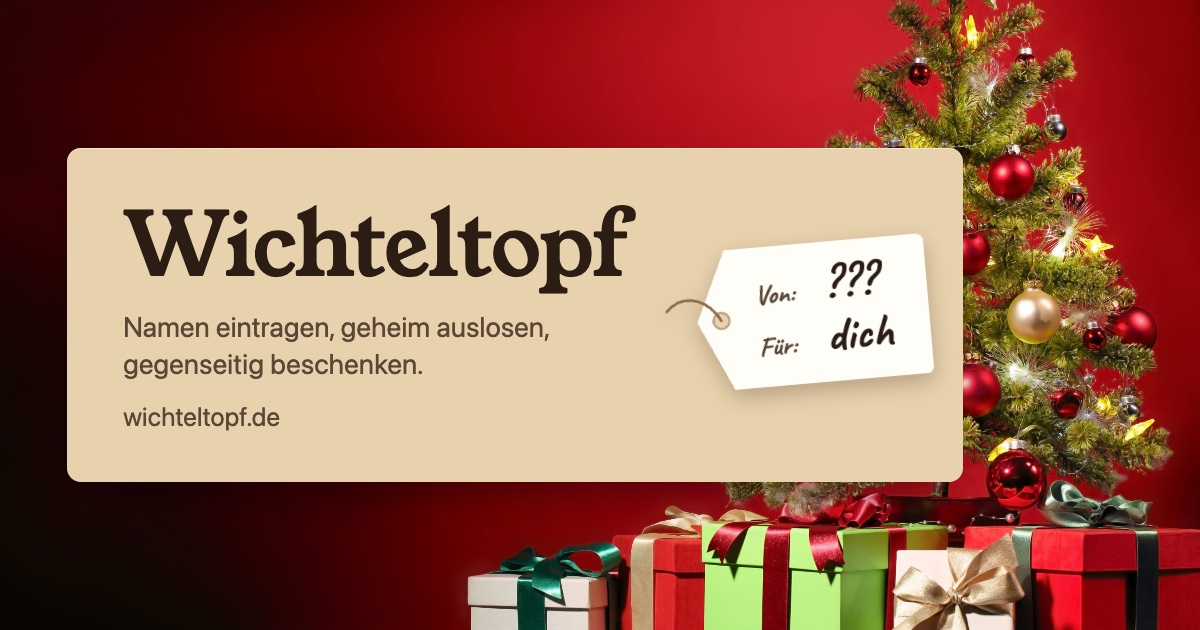
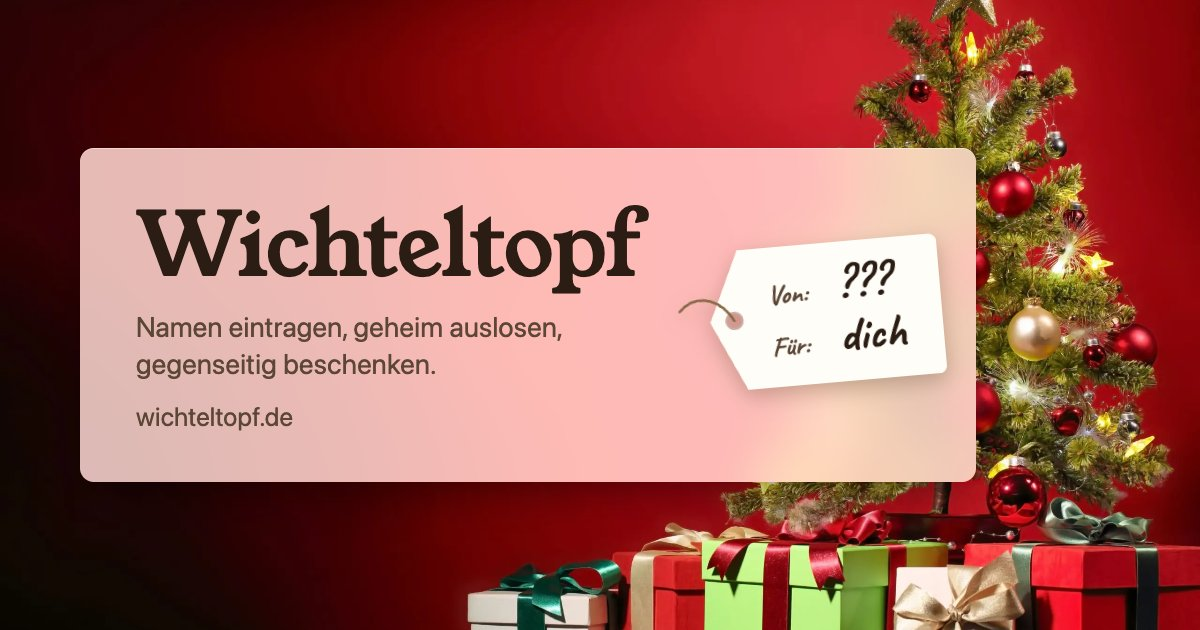
feat: the link preview shows the pot's own background, one preview image per theme

diff --git a/scripts/build-og.ts b/scripts/build-og.ts
@@ -1,0 +1,61 @@
+// Renders the link preview image (1200×630) for every background into public/static/og/<theme>.jpg,
+// and the one of the default theme to public/static/og.jpg for pages without a pot.
+// The template assets/og-image.html uses the site's stylesheets, served here from public/ by a tiny
+// local server, and is shot with headless Chrome (set CHROME if it isn't found).
+// Usage: npm run og [-- id ...]   (after `npm run images` and the entry in src/themes.ts)
+import { mkdirSync, readFileSync, writeFileSync } from 'node:fs';
+import { createServer } from 'node:http';
+import { fileURLToPath } from 'node:url';
+import sharp from 'sharp';
+import { THEMES } from '../src/themes.ts';
+import { startBrowser } from './lib/harness.ts';
+
+/** The background of public/static/og.jpg, the preview of pages that don't belong to a pot */
+const START_THEME = 'tree1';
+
+const PUBLIC = fileURLToPath(new URL('../public/', import.meta.url));
+const OUT = `${PUBLIC}static/og/`;
+const template = readFileSync(new URL('../assets/og-image.html', import.meta.url), 'utf8');
+const TYPES: Record<string, string> = {
+	css: 'text/css',
+	woff2: 'font/woff2',
+	webp: 'image/webp',
+	svg: 'image/svg+xml',
+};
+
+const server = createServer((req, res) => {
+	const path = new URL(req.url ?? '/', 'http://localhost').pathname;
+	const theme = path.match(/^\/og\/([\w-]+)$/)?.[1];
+	if (theme) {
+		res.writeHead(200, { 'content-type': 'text/html; charset=utf-8' });
+		return res.end(template.replace('{{theme}}', theme));
+	}
+	try {
+		res.writeHead(200, { 'content-type': TYPES[path.split('.').pop() ?? ''] ?? 'application/octet-stream' });
+		res.end(readFileSync(PUBLIC + path.replace(/^\//, '').replace(/\.\./g, '')));
+	} catch {
+		res.writeHead(404);
+		res.end();
+	}
+});
+await new Promise<void>((resolve) => server.listen(0, resolve));
+const address = server.address();
+const base = `http://localhost:${typeof address === 'object' && address ? address.port : 0}`;
+
+const ids = process.argv.slice(2);
+const themes = ids.length ? THEMES.filter((t) => ids.includes(t.id)) : THEMES;
+const browser = await startBrowser();
+await browser.setViewport(1200, 630, 1);
+mkdirSync(OUT, { recursive: true });
+for (const { id } of themes) {
+	await browser.open(`${base}/og/${id}`);
+	await browser.evaluate('document.fonts.ready.then(() => true)');
+	const jpeg = await sharp(await browser.screenshot())
+		.jpeg({ quality: 85 })
+		.toBuffer();
+	writeFileSync(`${OUT}${id}.jpg`, jpeg);
+	if (id === START_THEME) writeFileSync(`${PUBLIC}static/og.jpg`, jpeg);
+	console.log(`✔ ${id}`);
+}
+server.close();
+process.exit(0);

diff --git a/assets/og-image.html b/assets/og-image.html
@@ -1,28 +1,25 @@
 <!doctype html>
-<!-- Source of public/static/og.jpg (link preview image). Regenerate with: npm run images -->
+<!-- Template of the link preview images (public/static/og/<theme>.jpg), rendered per background by: npm run og
+     It uses the site's own stylesheets, so the card, its color and the photo match the pages. -->
 <html lang="de">
 <head>
 <meta charset="utf-8">
-<link rel="stylesheet" href="../public/static/style.css">
+<link rel="stylesheet" href="/static/style.css">
+<link rel="stylesheet" href="/static/themes.css">
 <style>
-	/* style.css uses absolute URLs, which don't resolve for a local file */
-	@font-face { font-family: "Young Serif"; src: url(../public/static/fonts/young-serif-400.woff2); }
-	@font-face { font-family: "Caveat"; font-weight: 600; src: url(../public/static/fonts/caveat-600.woff2); }
-	.tag::before { background-image: url(../public/static/string.svg); }
-	html, body { margin: 0; width: 1200px; height: 630px; overflow: hidden; }
+	html, body { width: 1200px; height: 630px; overflow: hidden; }
 	body {
 		padding: 0;
-		background: #3a0f0d url(backgrounds/tree1.jpg) 85% 60% / cover;
 		display: flex;
 		align-items: center;
-		justify-content: center;
 	}
 	main {
 		display: flex;
 		align-items: center;
 		gap: 40px;
 		max-width: none;
-		margin: 0 170px 0 0;
+		/* like the pages: at the left so the photo's motif stays visible, or centered (--card-start: auto) */
+		margin: 0 auto 0 var(--card-start, 80px);
 		padding: 48px 64px 48px 56px;
 	}
 	h1 { font-size: 88px; margin: 0 0 12px; hyphens: none; }
@@ -31,7 +28,7 @@
 	.tag { margin-left: 60px; transform: rotate(-5deg) scale(1.35); }
 </style>
 </head>
-<body>
+<body data-theme="{{theme}}">
 	<main>
 		<div>
 			<h1>Wichteltopf</h1>

diff --git a/src/views/layout.ts b/src/views/layout.ts
@@ -27,6 +27,8 @@ export function layout(page: Page, title: string, content: Html, options: Layout
 	const description = options.description ?? DEFAULT_DESCRIPTION;
 	const potTitle = page.potTitle ?? '';
 	// the site first, then the pot, then the page: the same in the tab, in bookmarks and in link previews
+	// pages of a pot get the preview image of its background (npm run og), the others the default one
+	const ogImage = page.potTitle === undefined ? '/static/og.jpg' : `/static/og/${page.theme}.jpg`;
 	const fullTitle = ['Wichteltopf.de', potTitle, title].filter(Boolean).join(' · ');
 	return html`<!doctype html>
 <html lang="de">
@@ -41,7 +43,7 @@ export function layout(page: Page, title: string, content: Html, options: Layout
 	<meta property="og:site_name" content="Wichteltopf.de">
 	<meta property="og:title" content="${fullTitle}">
 	<meta property="og:description" content="${description}">
-	<meta property="og:image" content="${page.origin}/static/og.jpg">
+	<meta property="og:image" content="${page.origin}${ogImage}">
 	<meta property="og:image:width" content="1200">
 	<meta property="og:image:height" content="630">
 	<meta name="twitter:card" content="summary_large_image">

diff --git a/test/app.test.ts b/test/app.test.ts
@@ -265,6 +265,10 @@ describe('link previews', () => {
 		const { potPath } = await createPot();
 		const pot = await (await get(potPath)).text();
 		assert.ok(pot.includes('<title>Wichteltopf.de · Mitmachen</title>'));
+		assert.ok(
+			pot.includes('<meta property="og:image" content="http://localhost/static/og/candle.jpg">'),
+			'preview of its background',
+		);
 		assert.ok(pot.includes('<meta property="og:title" content="Wichteltopf.de · Mitmachen">'));
 		assert.ok(pot.includes('<meta name="robots" content="noindex">'));
 	});

diff --git a/scripts/smoke-test.ts b/scripts/smoke-test.ts
@@ -60,6 +60,7 @@ for (const path of [
 	`/static/img/thumb/${theme}.webp`,
 ])
 	assets.push([path, 'image/webp']);
+assets.push([`/static/og/${theme}.jpg`, 'image/jpeg']);
 for (const [path, type] of assets) {
 	const res = await get(path);
 	const contentType = res.headers.get('content-type') ?? '';

diff --git a/README.md b/README.md
@@ -53,6 +53,7 @@ Schema changes go into a new `migrations/NNNN_name.sql` file. Never edit an appl
 2. Run `npm run images` (requires `cwebp`: `brew install webp`, and Google Chrome for the preview image and icons).
 3. Run `npm run colors -- <id>` for the colors.
 4. Add `{ id, label, color, card, align, tags }` to `src/themes.ts` and run `npm run assets`.
+5. Run `npm run og -- <id>` for the link preview image (requires Google Chrome).
 
 Fonts in `public/static/fonts/` are under the SIL Open Font License (see the license files there).
 
